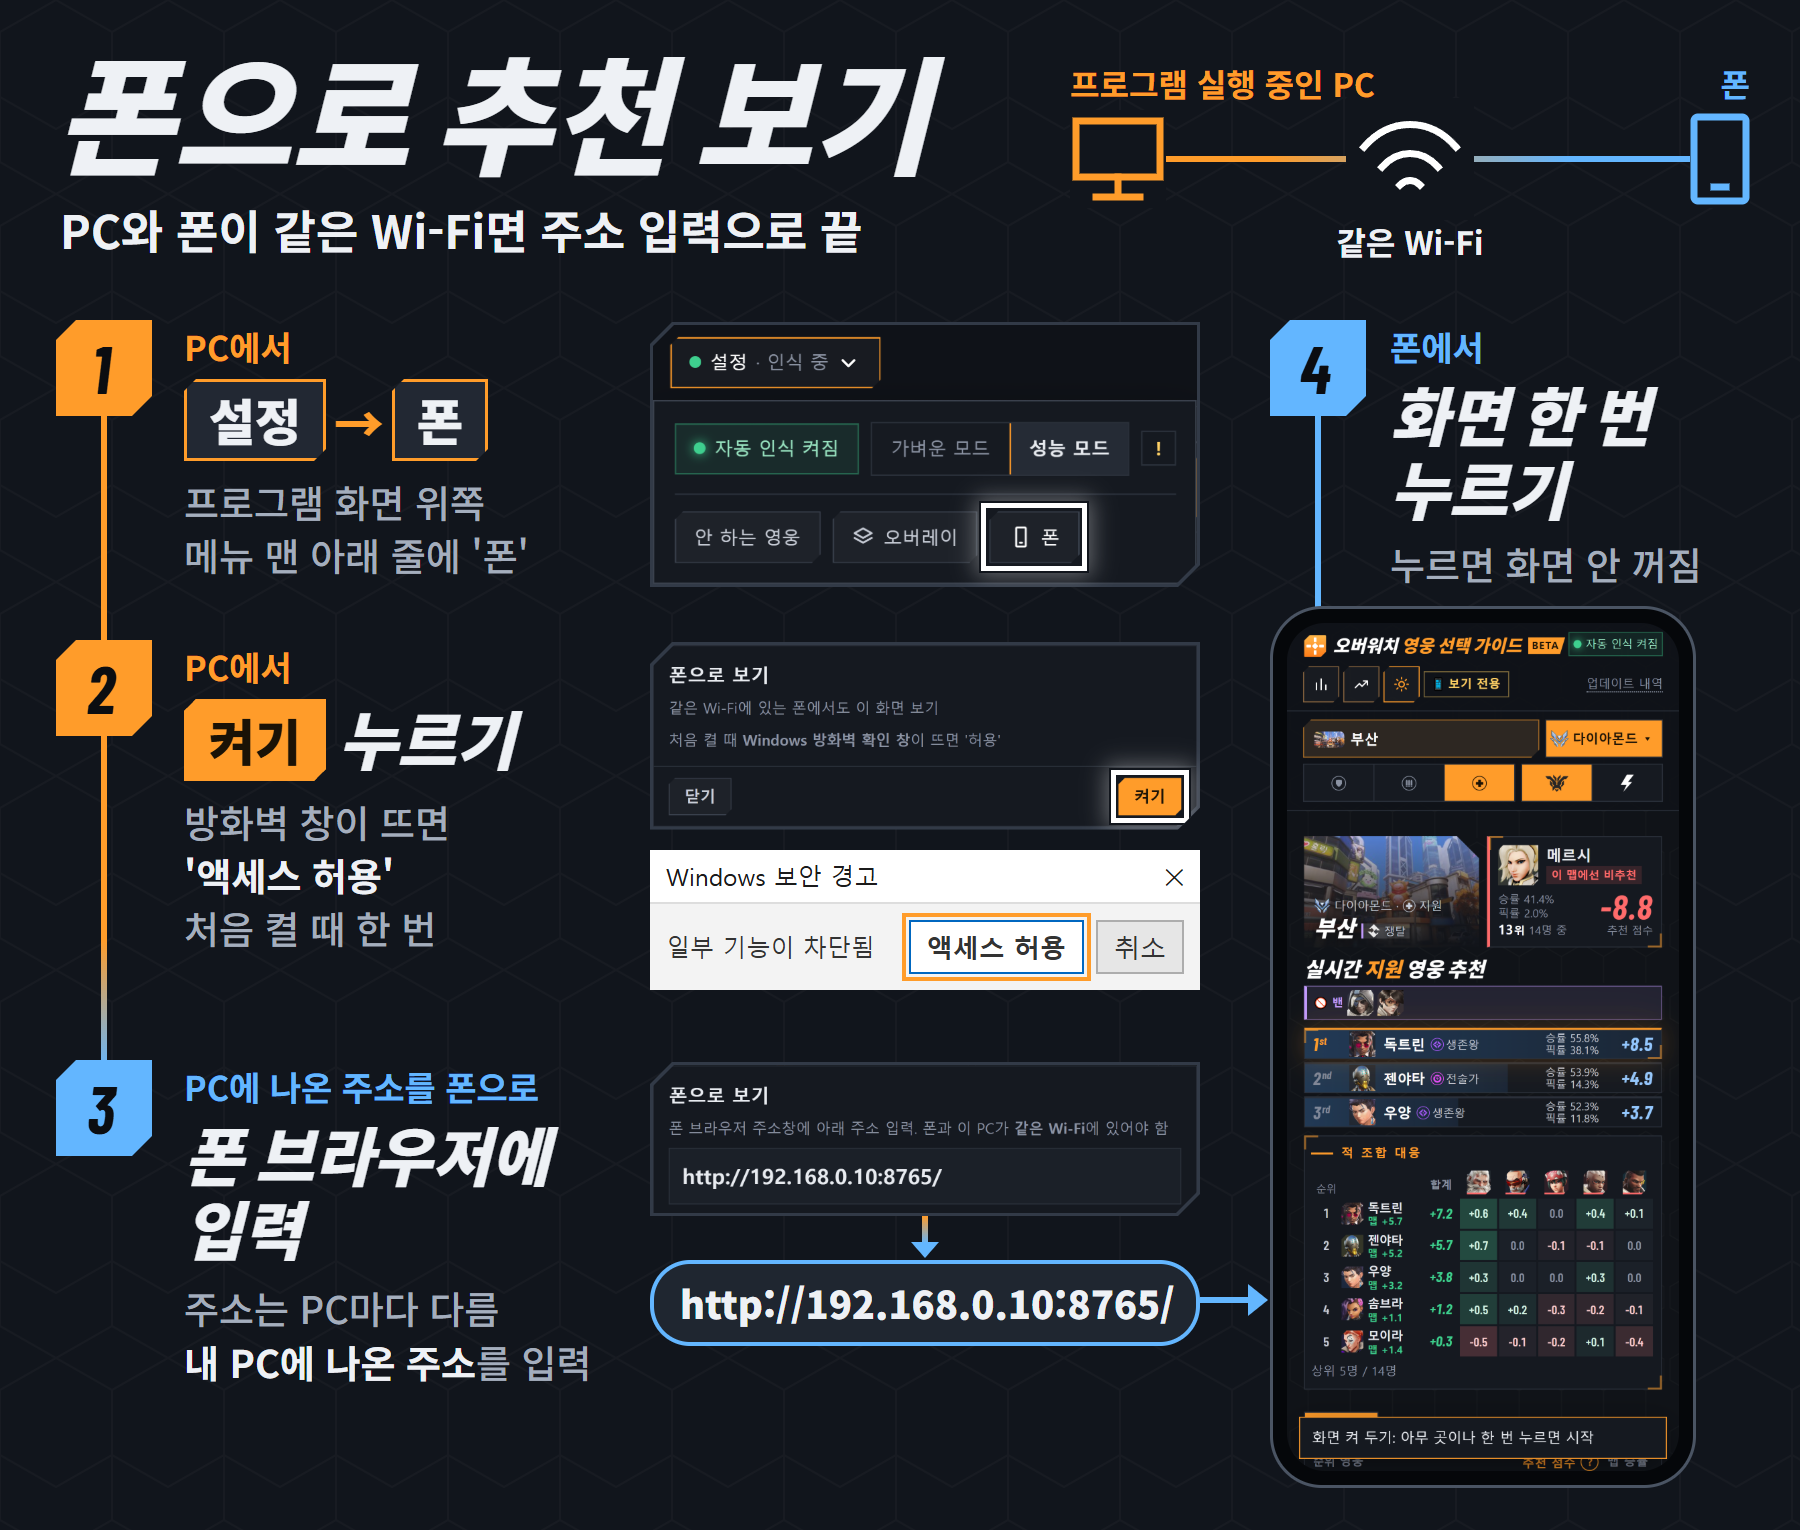
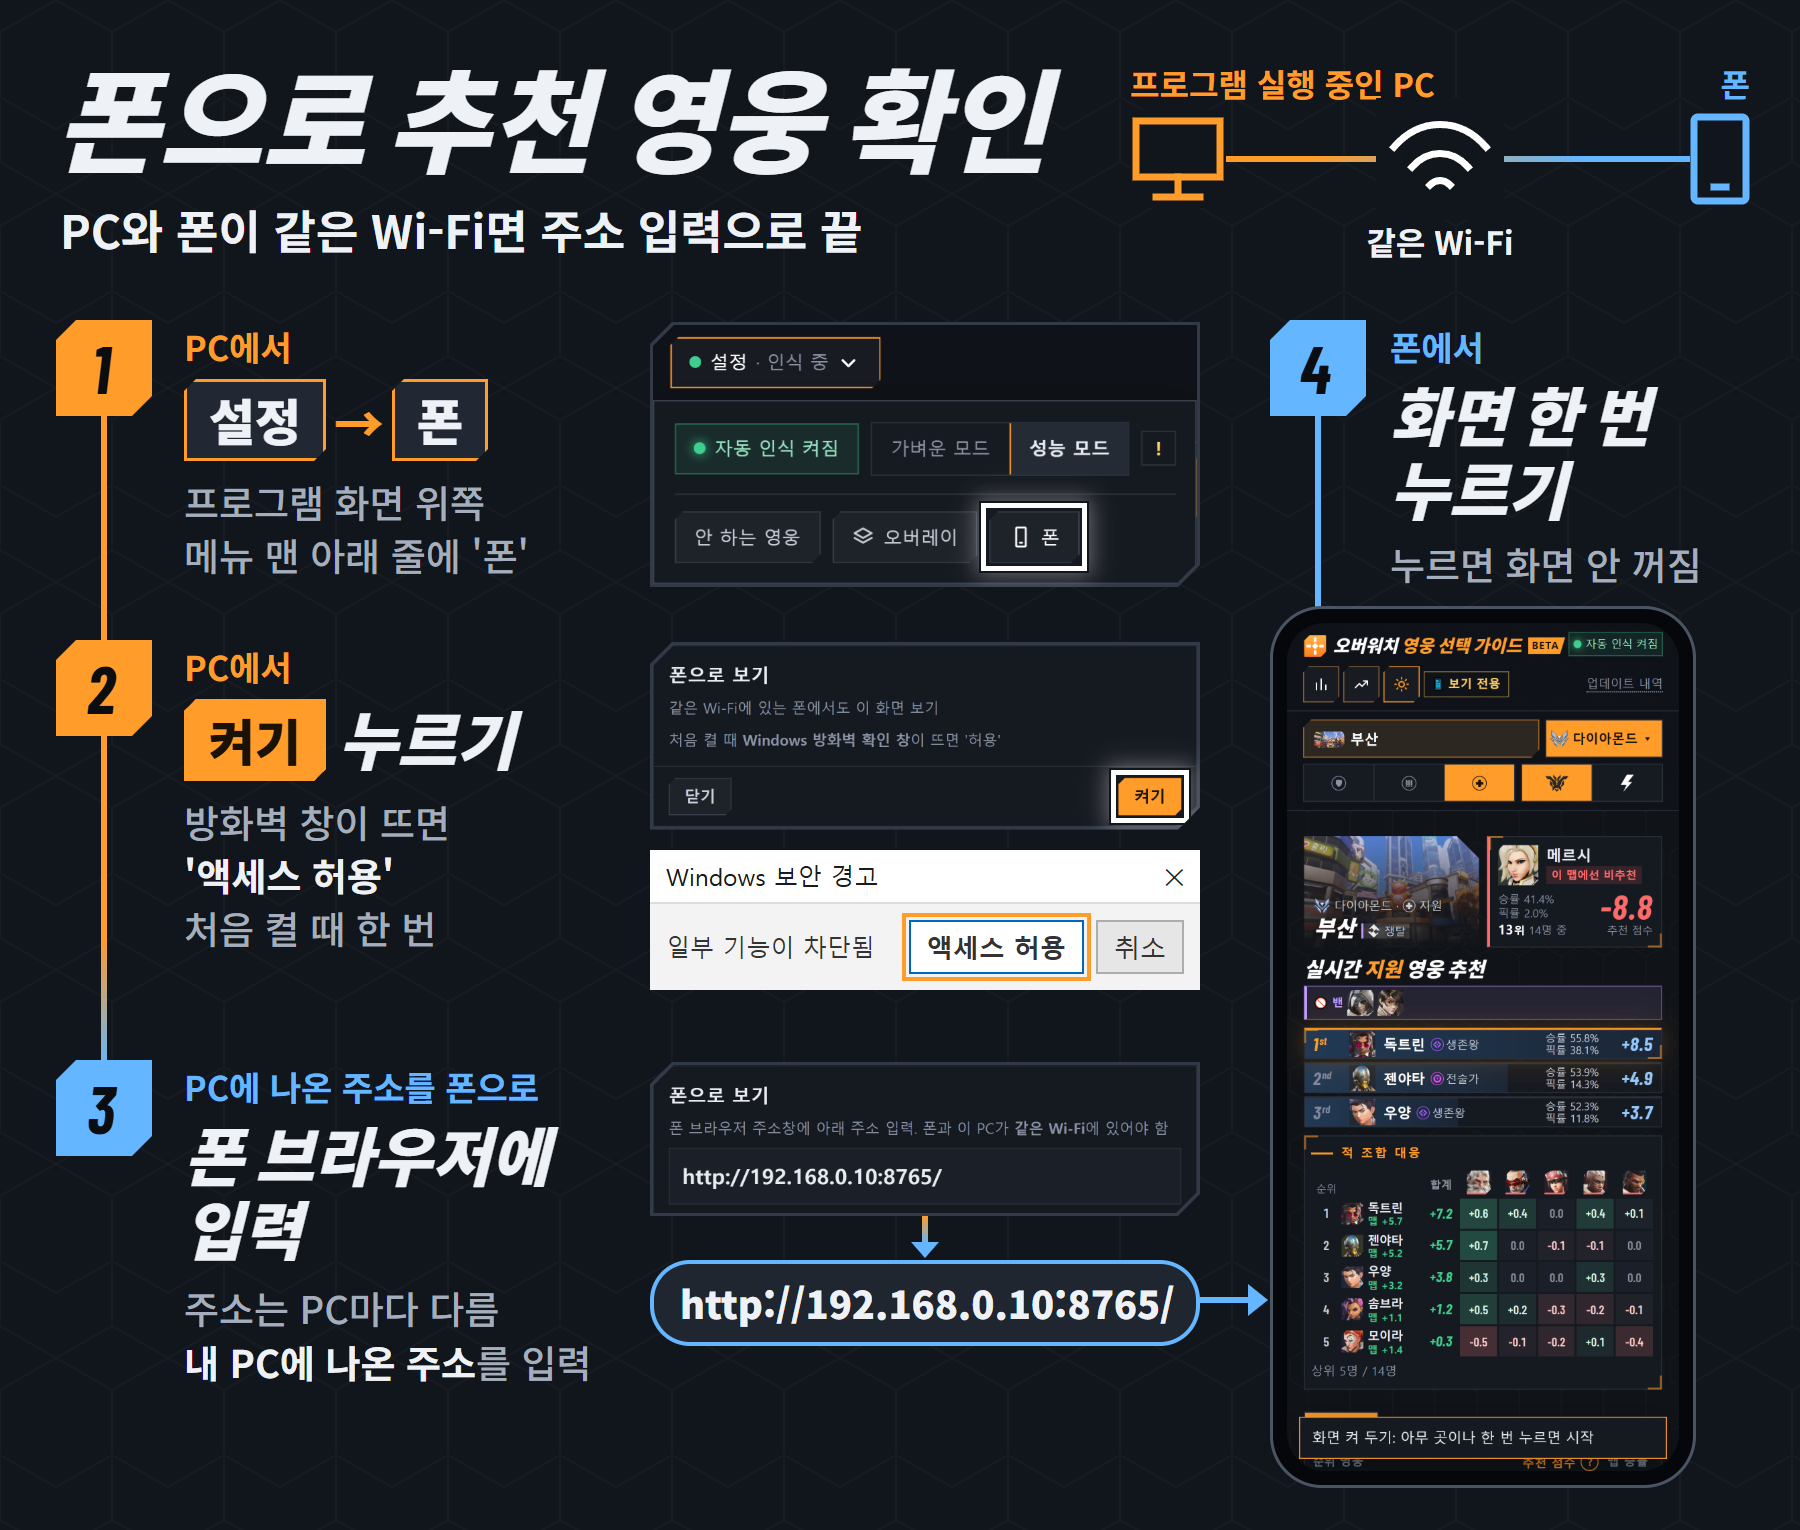
README: 폰 칸 제목을 '폰으로 추천 영웅 확인'으로
가이드 사진 제목과 링크도 같이 바꿈.

Changed region(s): [[0.0311, 0.0307, 0.84, 0.1536], [0.7467, 0.1536, 0.84, 0.1843]]

diff --git a/README.md b/README.md
@@ -39,7 +39,7 @@ Windows 10, 11 (64비트) | 베타 | 개인이 만든 비공식 도구 | [소개
 - 추천 목록에서 영웅을 누르면 지금 모드와 티어의 영웅 통계로 이동
 - 맵, 밴, 양 팀 영웅이 저절로 들어옴. 영웅 선택 화면과 점수판에서 대기실 금지까지 밴 5명, 내 영웅, 등급 범위를 읽음. 처음 보는 얼굴은 한 번 알려 주면 기억
 - 게임 위에 1~3순위와 조합 요령을 작게 표시(오버레이). Ctrl+Shift+O로 켜고 끄기
-- [폰으로 추천 화면 보기](#폰으로-보기). PC와 같은 Wi-Fi면 됨
+- [폰으로 추천 영웅 확인](#폰으로-추천-영웅-확인). PC와 같은 Wi-Fi면 됨
 - 추천대로 골랐을 때 승률. 판마다 결과와 베스트 픽이 남고, 티어별 메타와 맵별 통계도 있음
 - 업데이트는 알아서. 새 버전이 나오면 알림, 자동 업데이트를 켜면 게임을 쉴 때 받음
 
@@ -91,11 +91,11 @@ Windows 10, 11 (64비트) | 베타 | 개인이 만든 비공식 도구 | [소개
 
 </details>
 
-### 폰으로 보기
+### 폰으로 추천 영웅 확인
 
 게임 화면을 가리지 않고 폰에서 추천 보기(보기 전용). 화면 위쪽 **설정** → **폰** → **켜기**, 나오는 주소를 폰 브라우저에 입력.
 
-<img src="docs/phone-guide.png" alt="폰으로 보기 4단계. 1: PC에서 설정, 폰 누르기. 2: 켜기를 누르고 방화벽 창이 뜨면 액세스 허용. 3: PC에 나온 주소를 폰 브라우저에 입력. 4: 폰 화면을 한 번 누르면 화면이 안 꺼짐">
+<img src="docs/phone-guide.png" alt="폰으로 추천 영웅 확인 4단계. 1: PC에서 설정, 폰 누르기. 2: 켜기를 누르고 방화벽 창이 뜨면 액세스 허용. 3: PC에 나온 주소를 폰 브라우저에 입력. 4: 폰 화면을 한 번 누르면 화면이 안 꺼짐">
 
 <details>
 <summary><b>안 열릴 때</b></summary>
@@ -171,7 +171,7 @@ Windows 10, 11 (64비트) | 베타 | 개인이 만든 비공식 도구 | [소개
 | **못&nbsp;읽&#8288;음** | 게임 화면 모드를 **전체 창 모드**로 |
 | **게&#8288;임&nbsp;끊&#8288;김** | **가벼운 모드**를 켜고 오버레이 사용량을 **가벼운**으로 |
 | **0&#8288;.&#8288;2&#8288;.&#8288;0&nbsp;실&#8288;행&#8288;기** | [OW-MapPicker.bat](https://github.com/no2thingmore/ow-map-picker-release/releases/latest/download/OW-MapPicker.bat)을 다시 받아 한 번 실행. 기록은 그대로 |
-| **폰&nbsp;안&nbsp;열&#8288;림** | [폰으로 보기](#폰으로-보기)의 '안 열릴 때' |
+| **폰&nbsp;안&nbsp;열&#8288;림** | [폰으로 추천 영웅 확인](#폰으로-추천-영웅-확인)의 '안 열릴 때' |
 | **그&nbsp;밖&#8288;의&nbsp;문&#8288;제** | 검은 창 내용과 그때 게임 화면 사진을 [이슈](https://github.com/no2thingmore/ow-map-picker-release/issues)로 보내기 |
 
 ## 안내 사항
